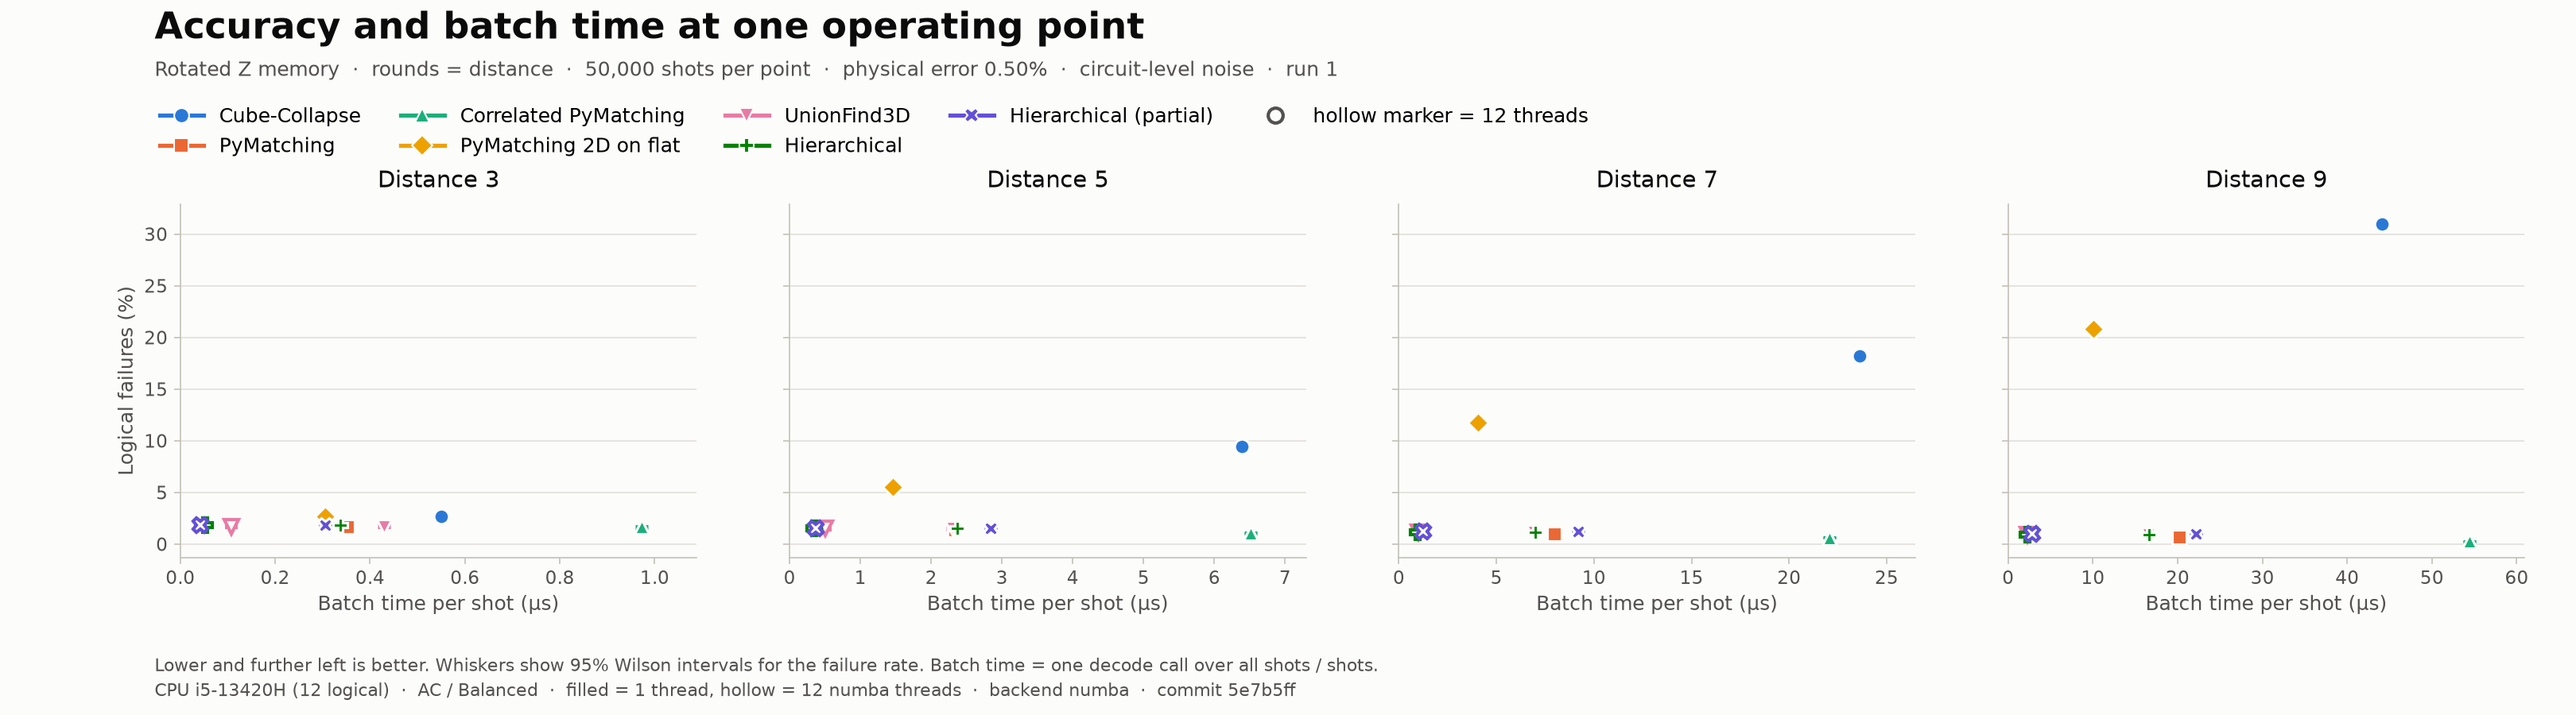
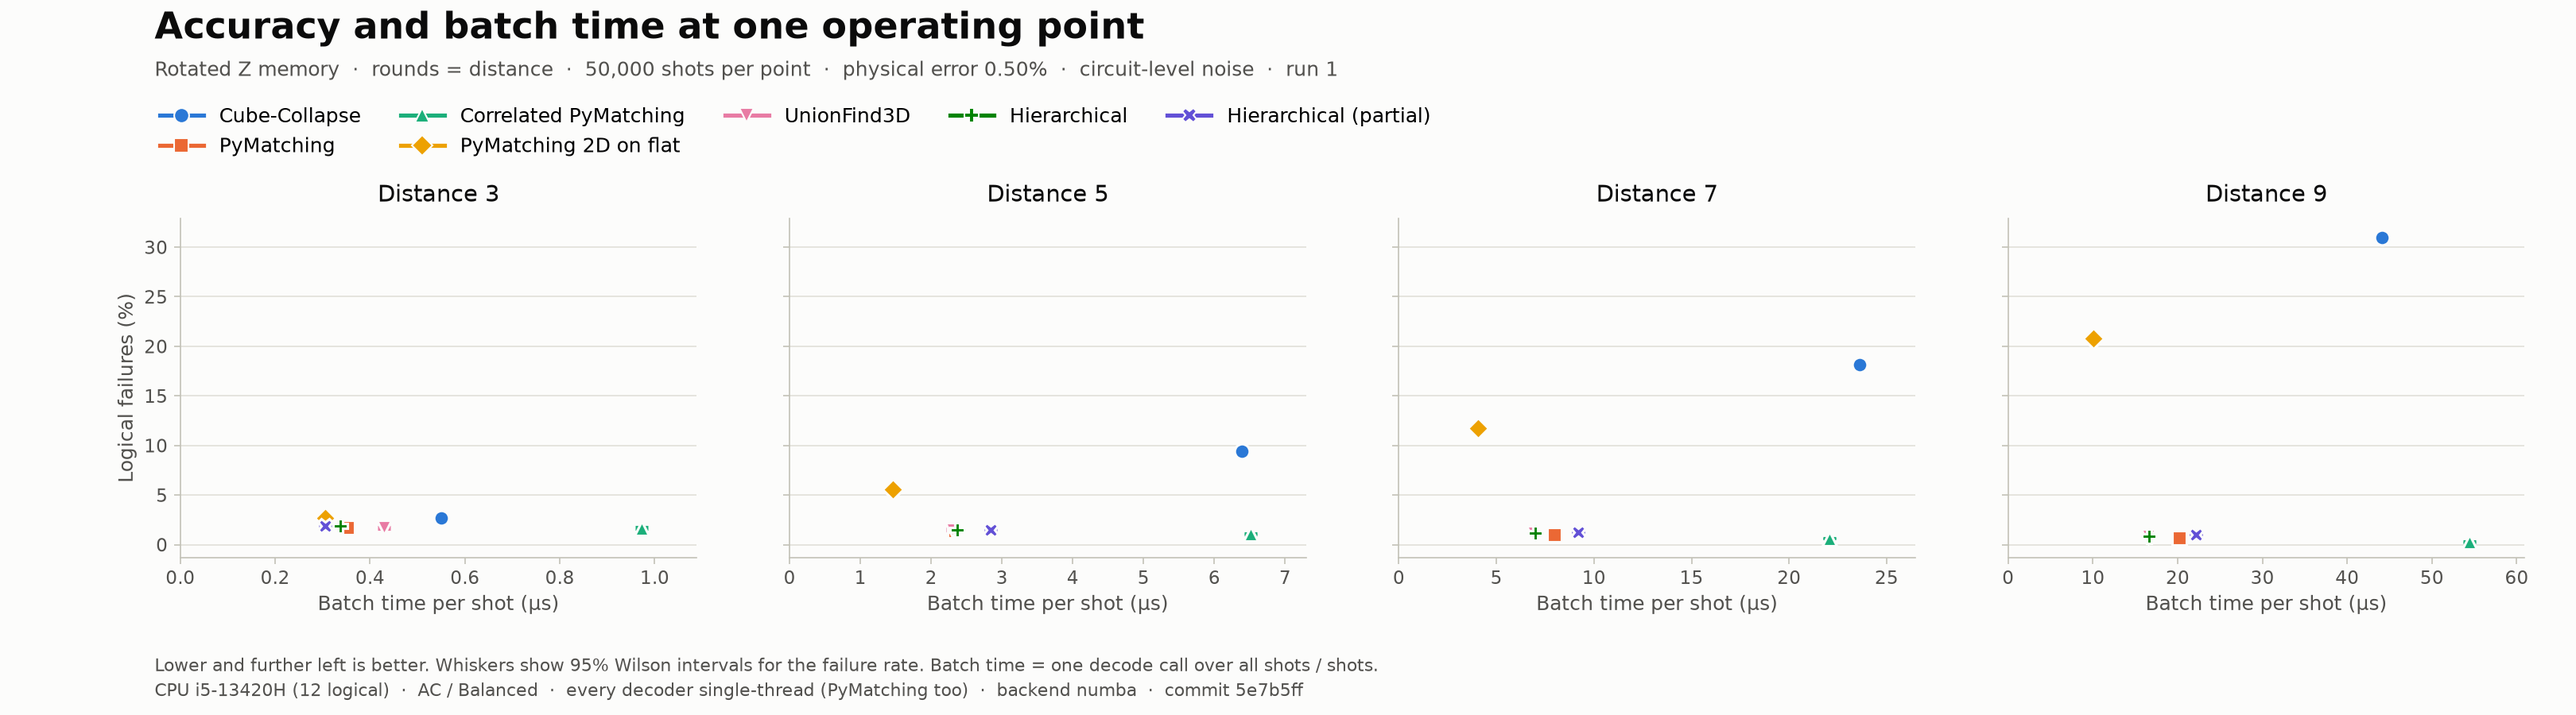
Item 3: fair speed reporting (single-thread vs single-thread)
Accuracy-runtime figure and benchmark: single-thread only by default (multi-thread opt-in).
Thread-scaling footer notes PyMatching can be run across processes. README: single-thread
timing table + separate parallelism section (throughput across shots; ensemble latency as
cores used per shot). Re-rendered the affected figures from saved CSVs.

diff --git a/src/figures.py b/src/figures.py
@@ -227,10 +227,14 @@ def _subtitle(meta: dict, shots: int | None = None, p: float | None = None) -> s
 
 
 # ---- accuracy vs runtime (the standard figure) -------------------------------------------
-def plot_accuracy_runtime(rows: list[dict], meta: dict | None = None):
+def plot_accuracy_runtime(rows: list[dict], meta: dict | None = None, show_multithread: bool = False):
     """rows: decoder, d, p, shots, ler, ci_low, ci_high, us_per_shot, threads.
-    Filled markers = 1 thread; hollow markers = the multi-thread run of the same decoder."""
+    Fair speed reporting: by default only single-thread rows are drawn, so every decoder is
+    compared with single-thread PyMatching. show_multithread=True adds hollow markers for the
+    multi-thread rows (our scaling; see thread_scaling.png)."""
     meta = meta or {}
+    if not show_multithread:
+        rows = [r for r in rows if (r.get("threads") or 1) == 1]
     decoders = order_decoders(r["decoder"] for r in rows)
     distances = sorted({r["d"] for r in rows})
     fig, axes = plt.subplots(1, len(distances), figsize=(_width(len(distances), 5.4), 6.0),
@@ -263,7 +267,8 @@ def plot_accuracy_runtime(rows: list[dict], meta: dict | None = None):
                               label=f"hollow marker = {multi[-1]} threads"))
     top = _legend(fig, handles)
     meta = {**meta, "threads_note": meta.get("threads_note") or
-            (f"filled = 1 thread, hollow = {multi[-1]} numba threads" if multi else "1 thread")}
+            (f"filled = 1 thread, hollow = {multi[-1]} numba threads" if multi
+             else "every decoder single-thread (PyMatching too)")}
     _footer(fig, ["Lower and further left is better. Whiskers show 95% Wilson intervals for the failure "
                   "rate. Batch time = one decode call over all shots / shots.", machine_line(meta)])
     fig.subplots_adjust(left=0.07, right=0.98, top=top, bottom=0.22, wspace=0.18)
@@ -367,7 +372,9 @@ def plot_thread_scaling(rows: list[dict], meta: dict | None = None):
                           label="PyMatching (single-thread reference)"))
     top = _legend(fig, handles)
     _footer(fig, ["Lower is better. Shots are independent, so the batch is split across threads "
-                  "(numba prange); labels give the speed-up over 1 thread.", machine_line(meta)])
+                  "(numba prange); labels give the speed-up over 1 thread. This shows how our decoders "
+                  "scale, not a like-for-like race: PyMatching is drawn single-threaded, but it can also "
+                  "be run on separate shot batches in parallel processes.", machine_line(meta)])
     fig.subplots_adjust(left=0.08, right=0.97, top=top, bottom=0.2, wspace=0.18)
     return fig
 

diff --git a/src/benchmark.py b/src/benchmark.py
@@ -5,8 +5,8 @@
     python -m src.benchmark --only accuracy     # one part: accuracy | sweep | threads
 
 Parts
-  accuracy  circuit-level p = 0.5%, d = 3/5/7/9, every decoder on the same shots (seed 0).
-            numba decoders are timed at 1 thread and at the max thread count.
+  accuracy  circuit-level p = 0.5%, d = 3/5/7/9, every decoder on the same shots (seed 0),
+            every decoder single-thread (the fair comparison with PyMatching).
             -> results/accuracy_runtime_<ts>.csv, accuracy_runtime + cube_collapse_story PNGs
   sweep     p in 0.1-0.8%, d = 3/5/7/9, single-thread.
             -> results/sweep_<ts>.csv, accuracy_runtime_sweep + fast_path_fraction PNGs
@@ -146,8 +146,9 @@ def meta_for(fp: dict, run: int, backend: str = "numba") -> dict:
 
 
 def run_accuracy(args, fp, run, stamp, max_threads):
+    # Fair speed reporting: single thread only here; multi-thread scaling is its own figure.
     rows = measure_points(args.decoders, args.distances, [args.p], args.shots, args.seed,
-                          sorted({1, max_threads}), args.repeats, fp, run)
+                          (1,), args.repeats, fp, run)
     csv_path = write_rows(rows, args.out / f"accuracy_runtime_{stamp}.csv")
     meta = meta_for(fp, run)
     figs = [save_figure(plot_accuracy_runtime(rows, meta), "accuracy_runtime", args.out / "plots", stamp)]

diff --git a/tests/test_figures.py b/tests/test_figures.py
@@ -60,6 +60,17 @@ def test_accuracy_runtime(accuracy_rows, tmp_path):
     _check(plot_accuracy_runtime(accuracy_rows, META), "accuracy_runtime", tmp_path)
 
 
+def test_accuracy_runtime_is_single_thread_by_default(accuracy_rows, tmp_path):
+    import matplotlib.pyplot as plt
+    fig = plot_accuracy_runtime(accuracy_rows, META)
+    n_default = sum(len(ax.lines) for ax in fig.axes)
+    plt.close(fig)
+    fig = plot_accuracy_runtime(accuracy_rows, META, show_multithread=True)
+    n_all = sum(len(ax.lines) for ax in fig.axes)
+    _check(fig, "accuracy_runtime_mt", tmp_path)
+    assert n_all > n_default  # the 12-thread rows only appear when asked for
+
+
 def test_cube_collapse_story(accuracy_rows, tmp_path):
     _check(plot_cube_collapse_story(accuracy_rows, META), "cube_collapse_story", tmp_path)
 

diff --git a/README.md b/README.md
@@ -229,21 +229,32 @@ decoder). Source: `results/accuracy_runtime_20261121_202412.csv`, figure
 | Cube-Collapse | 2.676 [2.538, 2.821] | 9.436 [9.183, 9.695] | 18.18 [17.85, 18.52] | 30.96 [30.56, 31.37] |
 | PyMatching 2D on flat | 2.676 [2.538, 2.821] | 5.556 [5.359, 5.760] | 11.73 [11.45, 12.02] | 20.80 [20.45, 21.16] |
 
-**Batch time, µs per shot: single thread (12 numba threads in brackets)**
+**Batch time, µs per shot, every decoder single-thread** (the fair comparison: PyMatching is
+single-threaded per decode call, and so is everything in this table)
 
 | Decoder | d = 3 | d = 5 | d = 7 | d = 9 |
 |---|---|---|---|---|
 | PyMatching | 0.35 | 2.33 | 7.97 | 20.21 |
 | Correlated PyMatching | 0.97 | 6.51 | 22.08 | 54.39 |
-| **UnionFind3D** | 0.43 (0.11) | 2.30 (0.51) | 6.92 (0.99) | 16.50 (2.23) |
-| **Hierarchical** | 0.34 (0.05) | 2.37 (0.35) | 6.98 (0.96) | 16.60 (2.26) |
-| Hierarchical (partial) | 0.30 (0.04) | 2.84 (0.37) | 9.19 (1.26) | 22.20 (2.80) |
+| **UnionFind3D** | 0.43 | 2.30 | 6.92 | 16.50 |
+| **Hierarchical** | 0.34 | 2.37 | 6.98 | 16.60 |
+| Hierarchical (partial) | 0.30 | 2.84 | 9.19 | 22.20 |
 | Cube-Collapse | 0.55 | 6.39 | 23.63 | 44.08 |
 | PyMatching 2D on flat | 0.31 | 1.46 | 4.07 | 10.08 |
 
-PyMatching runs on one thread. **Single thread vs single thread is the fair comparison.**
-The bracketed numbers show how our decoders scale. All times come from one run on one laptop
-(i5-13420H, 12 logical CPUs, AC power, "Balanced" plan) and are not comparable across runs.
+All times come from one run on one laptop (i5-13420H, 12 logical CPUs, AC power, "Balanced"
+plan) and are not comparable across runs. Multi-core numbers are kept separate (next section).
+
+### Parallelism, reported separately
+Two different things, and neither belongs in a race against single-thread PyMatching:
+- **Throughput (parallel over shots).** Shots are independent, so numba `prange` splits a
+  batch across threads, with 1 core per shot. UnionFind3D / Hierarchical go from 6.96 / 7.00 µs to
+  1.04 / 0.99 µs per shot at d=7 on 12 threads (6.7× / 7.1×) (`thread_scaling_latest.png`).
+  **PyMatching can do the same** by running separate shot batches in parallel processes, so
+  this shows how our kernels scale, not that we are faster.
+- **Latency (cores used per shot).** The ensemble decoder can split *one* shot's M variants
+  across cores (`parallel="variants"`). With M=8 at d=7 one shot takes 263 µs on 1 core and
+  58 µs on 8 cores (cores used per shot = 8). Plain PyMatching has no per-shot parallelism.
 
 **Sweep** (100,000 shots per point, single thread; `results/sweep_20261121_202412.csv`).
 Hierarchical / PyMatching LER at p = 0.1 / 0.2 / 0.3 / 0.5%:

diff --git a/docs/PROGRESS.md b/docs/PROGRESS.md
@@ -488,3 +488,19 @@ Item 1 commits: `707cda6`, merged with your teammates' cleanup and pushed as `bb
 
 - **Over variants:** 8 cores bring the latency of a single shot down 4.5–5.1×, to 58 µs (d=7). That is still 5× PyMatching single-thread.
 - **Over shots:** throughput is better (8.5–9× at 12 threads), but that is a throughput figure. PyMatching can be parallelized the same way with processes, so it is not a like-for-like comparison.
+
+Item 2 commit: `0186f54` (merge; it also took in teammate deletions of old figure stamps).
+
+## Item 3: fair speed reporting (21:42 to 21:46)
+- **`plot_accuracy_runtime`:** now draws **single-thread rows only** by default; the 12-thread
+  hollow markers are opt-in with `show_multithread=True`, which is tested. `src.benchmark`'s
+  accuracy part times every decoder single-thread.
+- **`thread_scaling` footer:** now says it shows our scaling, not a like-for-like race, because
+  PyMatching can also run separate shot batches in parallel processes.
+- **README results:** the timing table is single-thread only. A new subsection, "Parallelism,
+  reported separately", covers throughput across shots (with the PyMatching-processes caveat)
+  and latency as **cores used per shot** (ensemble: 1 core 263 µs vs 8 cores 58 µs at d=7, M=8).
+- **Figures re-rendered from the saved CSVs:** `accuracy_runtime_latest.png`,
+  `thread_scaling_latest.png` and `cube_collapse_story_latest.png` (stamp 214318/214319).
+- The operating-point figure (single-thread since 20:37) and `ensemble_vs_M` (single-thread)
+  already followed the rule.
